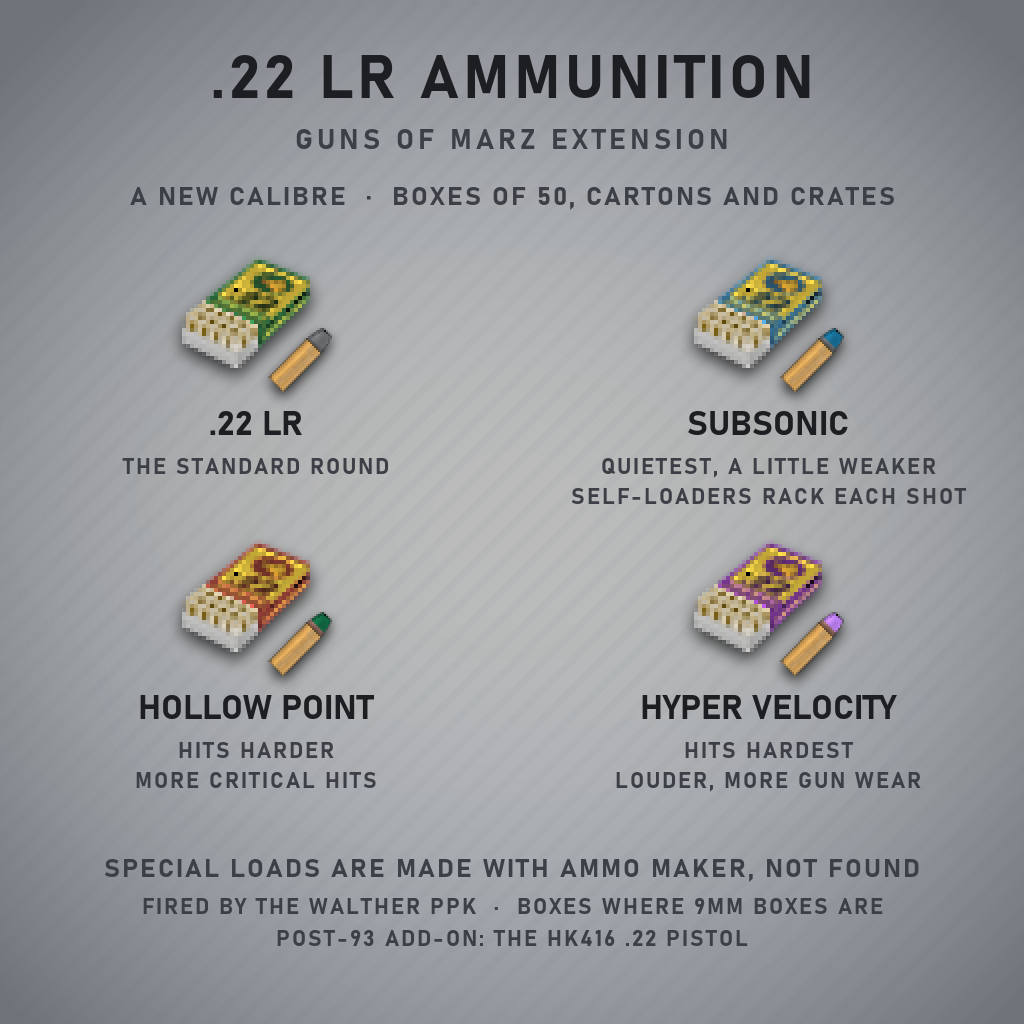
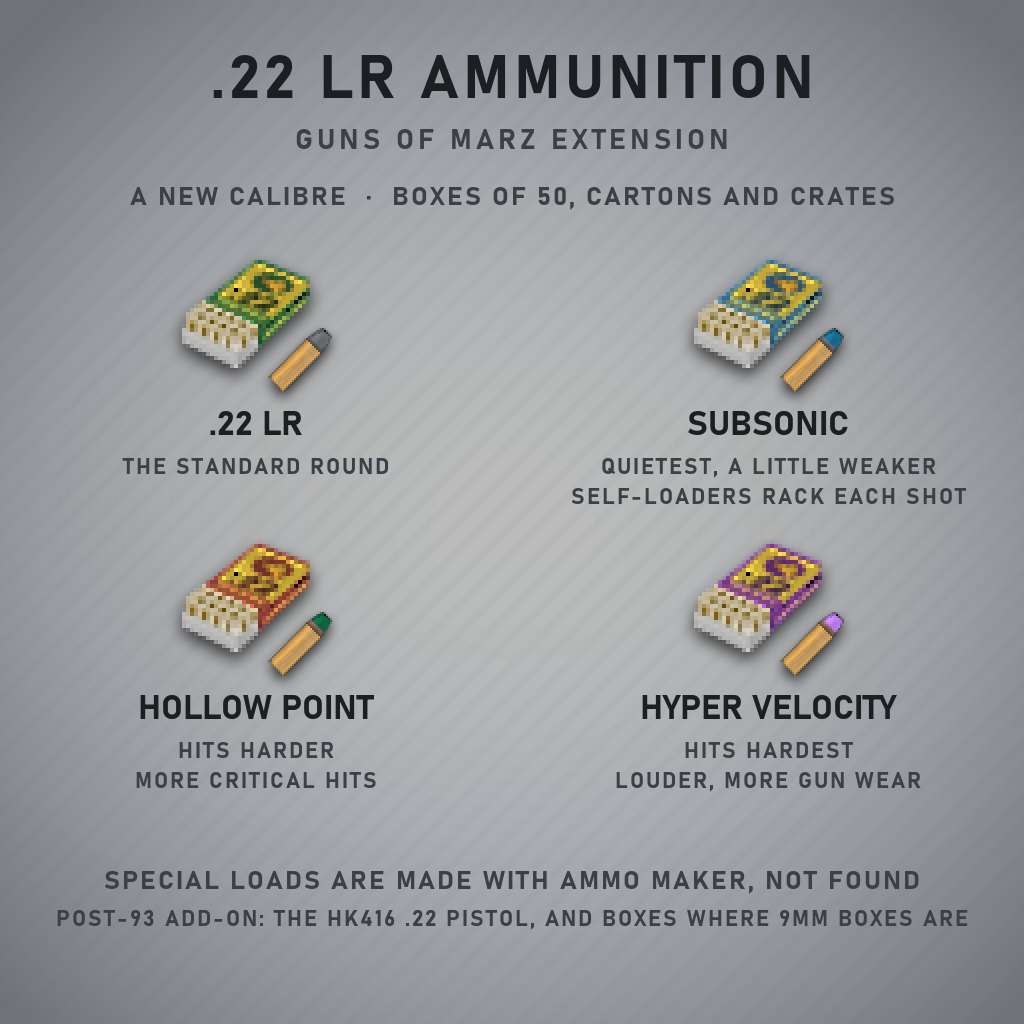
Keep preview29 as it was (3.16.0)

Changed region(s): [[0.0625, 0.8125, 0.9375, 0.9375]]

diff --git a/scripts/make_workshop_art.py b/scripts/make_workshop_art.py
@@ -1441,10 +1441,9 @@ def preview29(path, W=1024):
         for m, line in enumerate(lines):
             page.alpha_composite(text_layer(size, (cx, ty + u(24 + m * 15)), line, small, (60, 64, 70, 255),
                                             anchor="ma", spacing=u(1)))
-    caption(page, 428, "SPECIAL LOADS ARE MADE WITH AMMO MAKER, NOT FOUND", big=True)
-    # since 3.16.0 the main mod has the Walther PPK and spawns the boxes itself (its Loot.lua)
-    caption(page, 448, "FIRED BY THE WALTHER PPK  ·  BOXES WHERE 9MM BOXES ARE")
-    caption(page, 464, "POST-93 ADD-ON: THE HK416 .22 PISTOL")
+    caption(page, 434, "SPECIAL LOADS ARE MADE WITH AMMO MAKER, NOT FOUND", big=True)
+    # the main mod has no .22 gun: the pistol and the boxes in loot come with the add-on (its Loot.lua)
+    caption(page, 454, "POST-93 ADD-ON: THE HK416 .22 PISTOL, AND BOXES WHERE 9MM BOXES ARE")
     save_under(page.convert("RGB"), path)
 
 

diff --git a/CLAUDE.md b/CLAUDE.md
@@ -648,9 +648,10 @@ real lengths now, aimed pistol variants added, M60 load 6.75). No grip registrat
   the sights-up bodies of the MP7s, SCARs and Vectors, which now stand up under an optic: re-rendering them needs the
   `_RD` / `_FD` bodies first.
   preview29 (2026-11-14) is the main mod's .22 LR: the four loads two by two (box icon with the round over its
-  corner, scaled up crisp; name and what it does in play centred under it). Its loot lines (remade 2026-11-19 for
-  3.16.0) name the Walther PPK and the main mod's boxes beside 9mm, then Post-93's HK416 .22. Rebuild:
-  `make_workshop_art.py preview29` (no renders). Not yet on the Steam page.
+  corner, scaled up crisp; name and what it does in play centred under it), no gun (the main mod had none); the loot
+  line names the Post-93 add-on, whose Loot.lua spawned the .22 LR boxes until 3.16.0 moved them to the main mod with
+  the PPK (left as it is, user 2026-11-19: no need to update it). Rebuild: `make_workshop_art.py preview29` (no
+  renders). Not yet on the Steam page.
   preview30 (3.16.0, 2026-11-19) is the main mod's Walther PPK alone, as preview23: render_ad_guns.py `ppk` (bare with
   its magazine, the Glock 21's view and scale x 155 / 208, turned upright, so the left side's inscriptions and safety
   lever read after the mirror), a slot row (gun, 8-round magazine, .22 LR box) and two lines (ankle holster, loot).

diff --git a/TODO.md b/TODO.md
@@ -6,8 +6,7 @@ Shelved: resizing Guns of Marz's guns, `docs/gom_gun_scale.md`.
 
 ## After the 3.16.0 upload
 
-- [ ] Put preview30 (the Walther PPK) on the Steam page by hand, and replace preview29 there with the new one (its
-      loot lines now name the PPK and the main mod's .22 LR boxes).
+- [ ] Put preview30 (the Walther PPK) on the Steam page by hand.
 
 ## After the 3.15.0 upload
 
